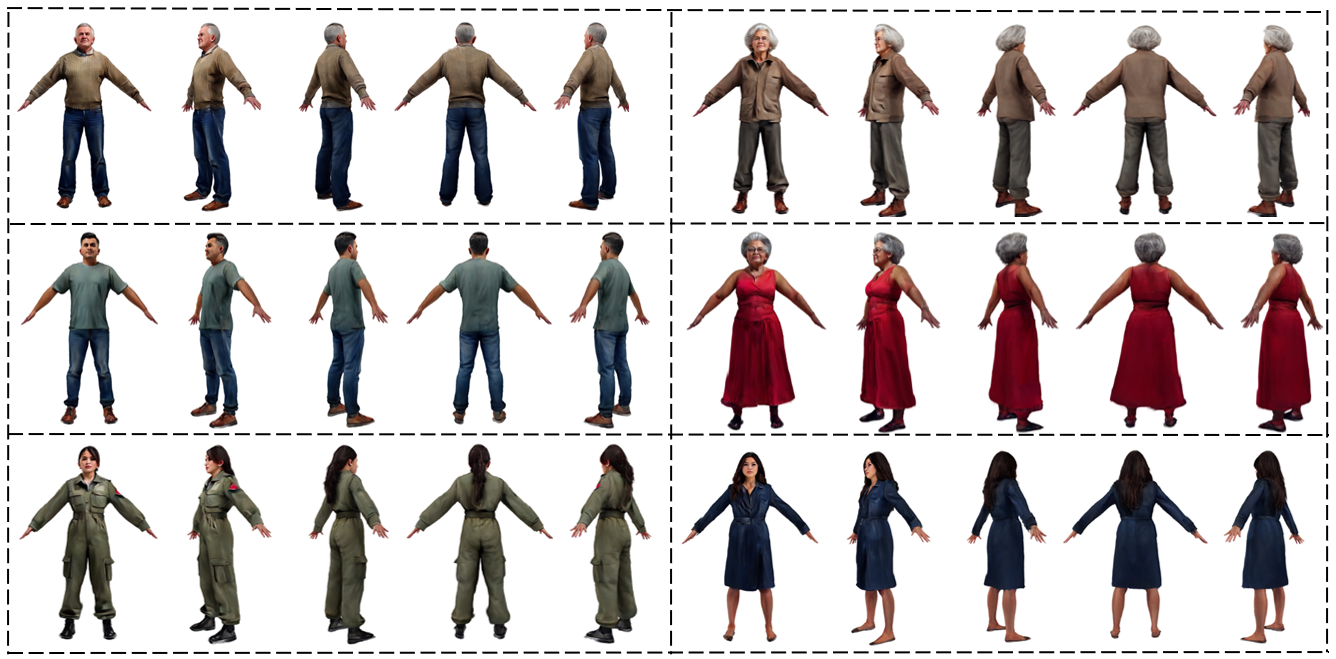
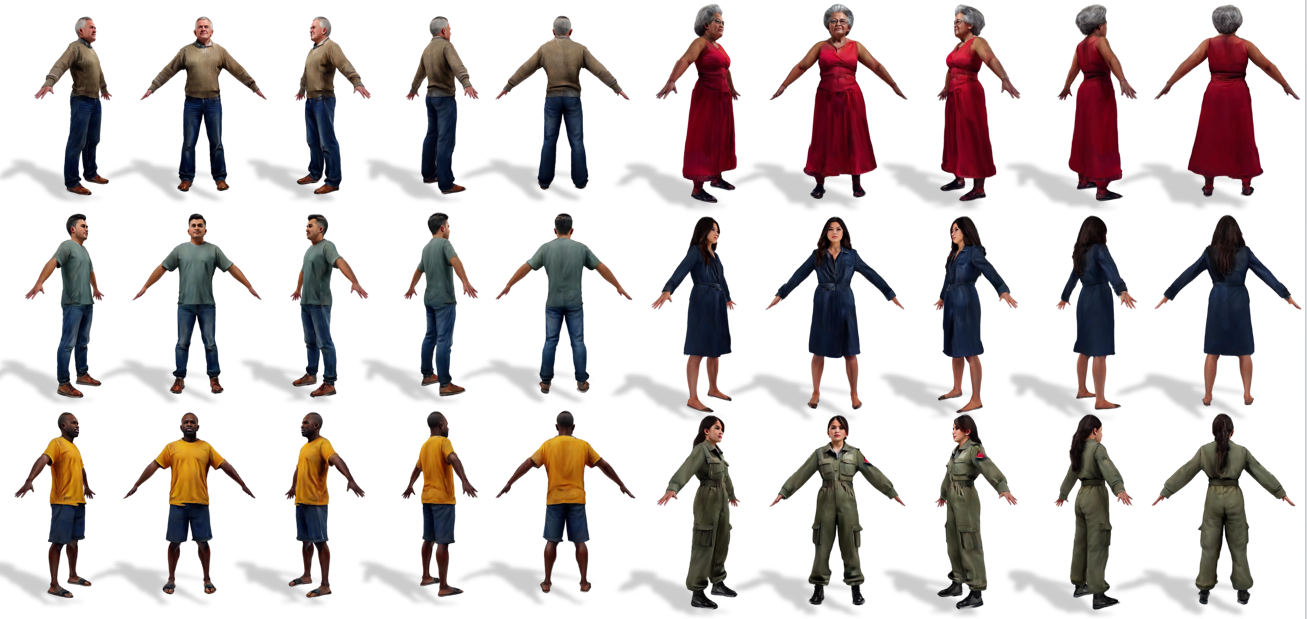
update 04/25 v2

diff --git a/index.html b/index.html
@@ -44,11 +44,15 @@
 <h2>About Me</h2>
     <p class="about-text">
     I am a second-year master's student at Nanjing University, currently interning at Microsoft Research.
-    I am now focusing on scalable post-training techniques for multimodal models.
     </p>
 
     <p class="about-text">
-    Previously, I interned at OPPO Research and Microsoft Research Asia.
+    I am now focusing on scalable post-training techniques for multimodal models.
+    Previously, I worked on 3D computer vision and human-centric modeling.
+    </p>
+
+    <p class="about-text">
+    I interned at OPPO Research and Microsoft Research Asia.
     I received my B.Eng. degree from Xidian University, and spent a wonderful time with my friends in Xi'an, China from 2020 to 2024.
     </p>
 
@@ -377,7 +381,7 @@ CVPR 2026 -->
 
 <hr>
 <p style="text-align: center; font-size: 14px; color: #888;">
-    Last updated: Feb. 2026
+    Last updated: Apr. 2026
 </p>
 
 